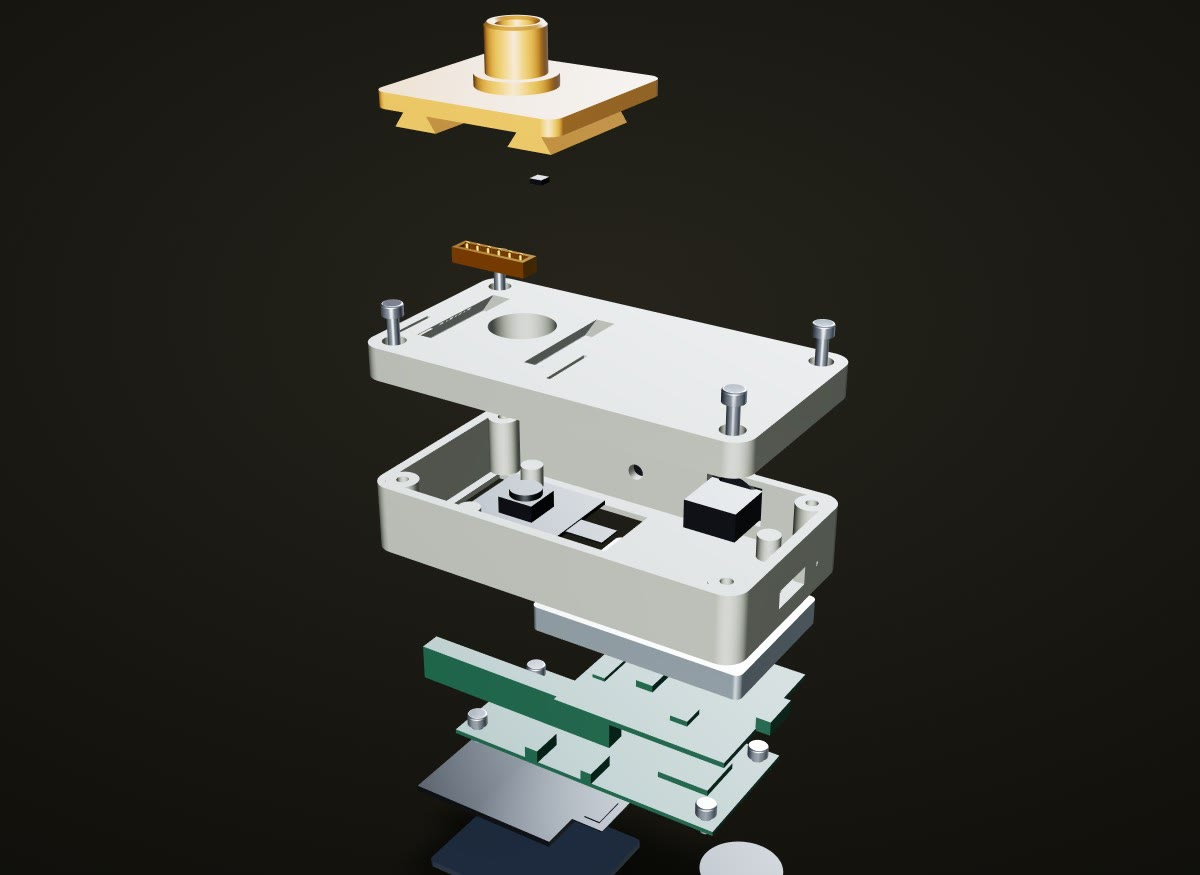
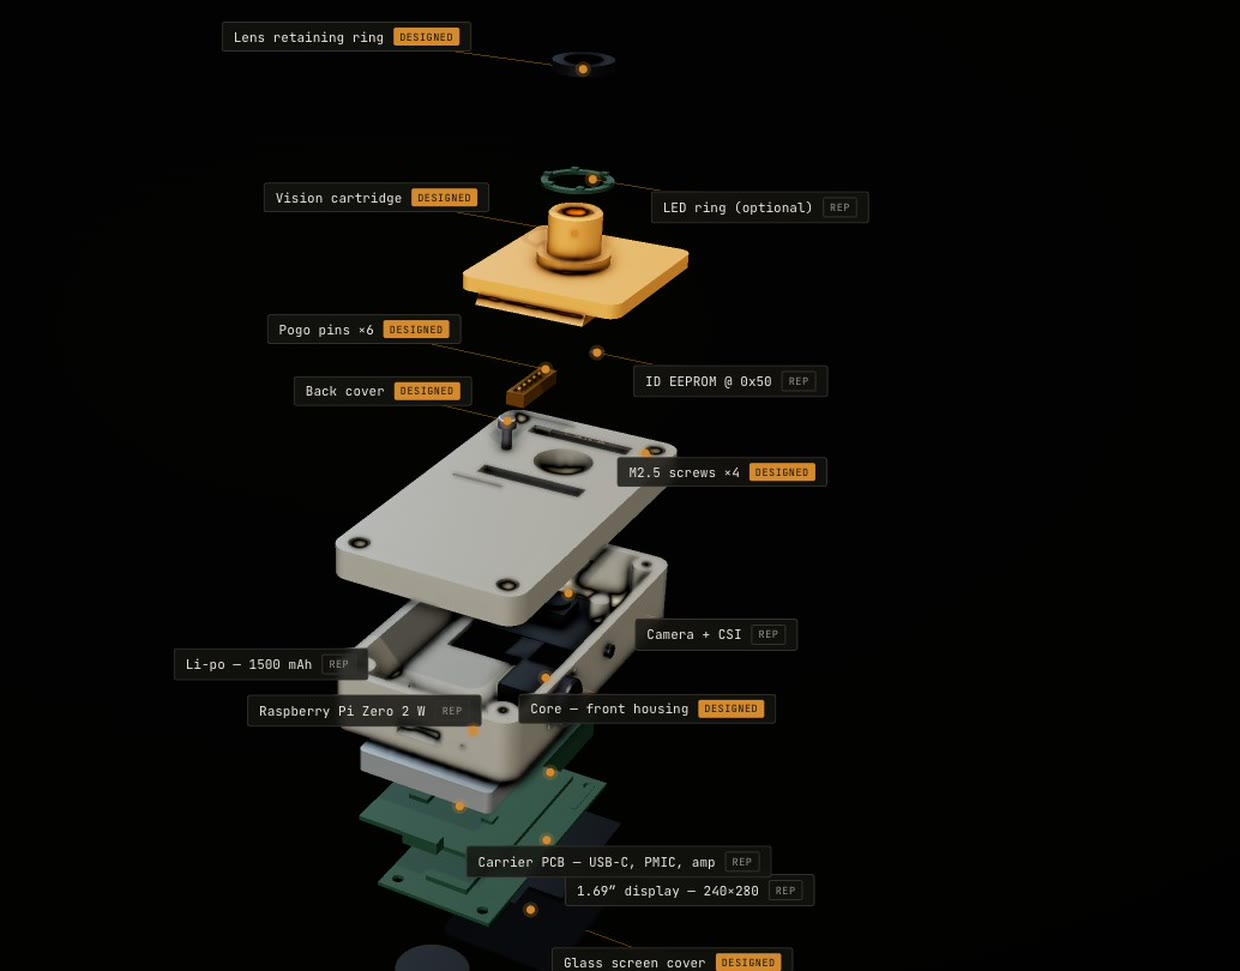
README: annotated teardown, capabilities/roadmap, trim internal scaffolding
- Swap the clean exploded still for the annotated teardown from the three.js
  showcase — every part with a leader label + DESIGNED/REP badge.
- Add "What it can do — and where it can go": the platform/contract framing,
  what works today, designed-in cartridge extensibility, and a concrete (honest,
  unbuilt) roadmap — keeping the validated-by-design spine.
- Remove VARA_BUILD_PLAN.md (internal planning scaffold) and the empty anim/
  placeholder; reword the four docs that cited the plan so nothing dangles.

diff --git a/README.md b/README.md
@@ -21,13 +21,16 @@ connector, M2.5 screws, and the representative internals) played in `<model-view
 
 ![VARA — the full device assembling, on a loop](docs/img/assembly.gif)
 
-Held open, the same geometry is a clean teardown — every part on its own axis, in seating order:
+Held open, the same geometry is an **annotated teardown** — every part on its own axis with a
+leader label, each badged **DESIGNED** (geometry I engineered) or **REP** (a representative,
+off-the-shelf stand-in I selected and modelled to size):
 
-![VARA — exploded teardown](docs/img/exploded.jpg)
+![VARA — annotated exploded teardown](docs/img/exploded.jpg)
 
 *Both come from the real Phase-6 part models with creased-normal shading and a studio HDR
-environment — the standalone animation lives in [`web/assembly/`](web/assembly/); the fully
-interactive, labelled version (tap any part for what it does **and why**) is in [`web/`](web/).*
+environment. The standalone animation lives in [`web/assembly/`](web/assembly/); the annotated
+teardown above is a frame from the fully interactive showcase in [`web/`](web/), where you can
+drag the explode slider and tap any part for what it does **and why**.*
 
 ---
 
@@ -120,11 +123,56 @@ same reason.
 
 ---
 
+## What it can do — and where it can go
+
+VARA is a **platform**, not a single gadget. The thing that makes it one is the frozen interface
+contract: a cartridge is anything that fits the dual-rail dovetail envelope and speaks the 6-pin
+bus — `V+ (3V3 switched, ≤150 mA) · GND · I²C SDA · I²C SCL · CD# (detect) · INT`, with an
+EEPROM ID at `0x50`. Design that contract once, and every future "sense" is just a new cartridge.
+
+**What works today (the prototype loop, [`app/`](app/)).** Jog-press → the core camera captures →
+a cloud vision model identifies → a viewfinder + caption render on the 1.69″ display → it speaks.
+The core reads the cartridge's EEPROM ID on attach and can branch behaviour per cartridge. Every
+failure mode (no Wi-Fi, no API key, a timeout) degrades to a clean on-screen message, never a
+crash. This is **logic-validated with swappable stubs, not hardware-tested.**
+
+**Designed-in extensibility (the contract already supports it).** Because the connector and bus
+are frozen, these need *no change to the core* — only a new cartridge body + an I²C sensor:
+
+| New "sense" | Representative sensor | Fits because |
+|---|---|---|
+| **Thermal / IR** | MLX90640 32×24 array | low-rate I²C, brings its own optics |
+| **Air-quality / smell** | BME688 gas·VOC·T·RH·P | pure I²C, microwatts |
+| **Macro / microscope** *(the hero, built)* | swappable lens over the core eye | exercises the ±0.28 mm optical-axis budget |
+
+The honest edge case is **audio/ultrasonic**: raw streaming exceeds the low-speed 6-pin contract,
+so that cartridge would need a small on-cartridge MCU to do DSP and report over I²C. That's not a
+flaw — it's the contract telling you where its boundary is (see
+[`docs/future-cartridges.md`](docs/future-cartridges.md); none of these are modelled).
+
+**Where it could go next — concrete, unbuilt.** In rough order of "makes it real":
+
+- **Close the hardware loop** — actually print the enclosure in PA12-CF, *measure* the dovetail
+  fit and snap force against the analytical predictions, and **route + fabricate the PCB** (routing
+  was explicitly not done; the design stops at an ERC-clean schematic/netlist/BOM).
+- **Go offline / on-device** — swap the cloud vision call for a small local model on the Pi, so
+  identification works with no network; keep the cloud path as an optional "deep" mode.
+- **More senses** — any of the I²C cartridges above; a UV or polarised-light optic; a barcode/OCR
+  reader; a depth or telephoto module (CSI-bandwidth senses live in the *core*, like the camera).
+- **Smarter compute** — drop in a Pi 5 / CM4 / Jetson-class board behind the same enclosure and
+  interface for heavier on-device perception, or add a follow-up voice-Q&A loop over each result.
+- **Add a high-speed contract variant** — a superset connector for senses the 6-pin bus can't
+  carry, without breaking the low-speed cartridges that already conform.
+
+The spine still holds for all of it: this repo is **validated-by-design, not manufactured or
+hardware-tested** — the value is a contract proven to generalise and a record of how it got there.
+
+---
+
 ## Repo map
 
 ```
 vara/
-  VARA_BUILD_PLAN.md   the master plan: scope, phases, honesty rules
   BUILDLOG.md          phase-by-phase decision record (read this for the process)
   docs/                architecture · connector-spec · dovetail-study · mechanical ·
                        electronics · prototype · tool-capabilities · future-cartridges

diff --git a/docs/future-cartridges.md b/docs/future-cartridges.md
@@ -1,6 +1,6 @@
 # Future cartridges — architecture only (NOT built)
 
-Scope discipline (Build Plan Part II): **one** hero cartridge gets finished — the vision/macro
+Scope discipline: **one** hero cartridge gets finished — the vision/macro
 lens. Every other cartridge idea lives here as *architecture only*, to prove the platform
 generalises without becoming a graveyard of half-built modules. Nothing below is modelled,
 and nothing below should be modelled unless a future phase explicitly re-opens scope.

diff --git a/BUILDLOG.md b/BUILDLOG.md
@@ -4,7 +4,7 @@ A decision record, phase by phase: the capability probes, the dead ends, and the
 calls. The point of this file is that the *process* is auditable — not just the result. Every
 phase ended at a gate for review before the next began.
 
-Honesty rules held throughout (Build Plan §1.4): never claim a fit is "tested" (only
+Honesty rules held throughout: never claim a fit is "tested" (only
 "validated-by-design"); document dead ends, not just wins; never simulate tool output.
 
 ---

diff --git a/docs/dovetail-study.md b/docs/dovetail-study.md
@@ -1,6 +1,6 @@
 # VARA Dovetail Connector — Optimization Study (Phase 2)
 
-**Date:** 2026-06-03 · **Centerpiece per Build Plan Part IV.**
+**Date:** 2026-06-03 · **The project's engineering centerpiece.**
 Parametric source: `cad/connector/dovetail_lib.py` · generations: `cad/connector/genparams.py`
 · analytics: `cad/connector/analysis.py` · artifacts: `cad/connector/{out,glb}/`,
 `connector_male_v1.stl`, `connector_female_v1.stl`, `connector_assembled_v1.glb`.

diff --git a/docs/tool-capabilities.md b/docs/tool-capabilities.md
@@ -2,7 +2,7 @@
 
 **Date:** 2026-06-03
 **Purpose:** Empirically establish what each tool can actually do *before* committing
-ambition, per Build Plan §Phase 0. Every claim below is backed by a command that was
+ambition — the project's Phase 0. Every claim below is backed by a command that was
 run and its observed output. Nothing here is assumed.
 
 > **Headline:** The plan named three MCPs (FreeCAD, Blender, KiCad). Two of those are
